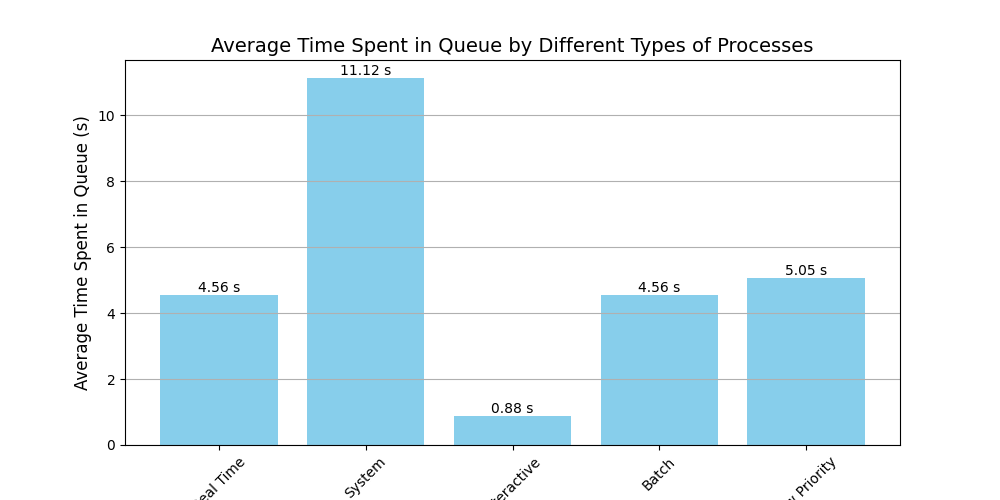
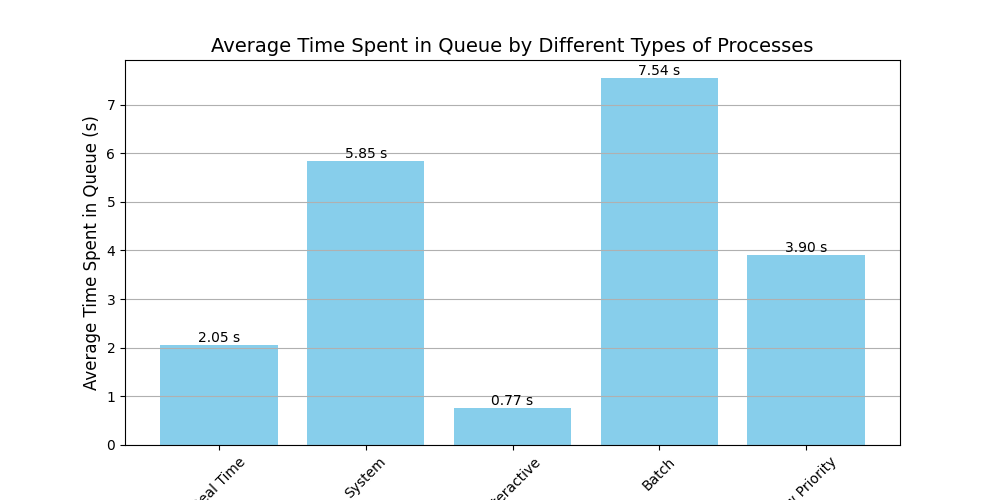
Burst time selection update for Interactive processes

Changed region(s): [[0.062, 0.12, 0.899, 0.78], [0.155, 0.57, 0.279, 0.69], [0.434, 0.78, 0.589, 0.84]]

diff --git a/app.py b/app.py
@@ -5,9 +5,7 @@ import os
 from mlqs import MultiLevelQueueScheduler, add_processes
 from plots import plot_results, plot_average_wait_time
 
-# pip install -r requirements.txt
-
-async def run_simulation_dynamic(num_cpus, total_processes, processes_per_second, speedup_simulation, burst_time):
+async def run_simulation_dynamic(num_cpus, total_processes, processes_per_second, speedup_simulation, burst_time, interactive_burst_time_range, use_random_interactive_burst):
     """
     Run a dynamic simulation of the multi-level queue scheduler.
 
@@ -17,17 +15,19 @@ async def run_simulation_dynamic(num_cpus, total_processes, processes_per_second
         processes_per_second (int): Rate at which processes are added per second.
         speedup_simulation (int): Factor to speed up the simulation.
         burst_time (int): Default burst time for each process.
+        interactive_burst_time_range (tuple): Min and max burst time for Interactive processes.
+        use_random_interactive_burst (bool): Whether to use random burst time within range for Interactive processes.
 
     Returns:
         tuple: Contains cpu_usage_data, queue_fill_data, and average_wait_times.
     """
     scheduler = MultiLevelQueueScheduler(num_cpus, total_processes, speedup_simulation, burst_time)
-    asyncio.create_task(add_processes(scheduler, total_processes, processes_per_second, burst_time))
+    asyncio.create_task(add_processes(scheduler, total_processes, processes_per_second, burst_time, interactive_burst_time_range, use_random_interactive_burst))
     cpu_usage_data, queue_fill_data, average_wait_times = await scheduler.run_scheduler()
     return cpu_usage_data, queue_fill_data, average_wait_times
 
 
-async def run_simulation_static(num_cpus, speedup_simulation, process_settings):
+async def run_simulation_static(num_cpus, speedup_simulation, process_settings, interactive_burst_time_range=None, use_random_interactive_burst=False):
     """
     Run a static simulation of the multi-level queue scheduler.
 
@@ -35,20 +35,28 @@ async def run_simulation_static(num_cpus, speedup_simulation, process_settings):
         num_cpus (int): Number of CPUs available for the scheduler.
         speedup_simulation (int): Factor to speed up the simulation.
         process_settings (dict): Dictionary containing process counts and burst times for each queue type.
+        interactive_burst_time_range (tuple, optional): Min and max burst time for Interactive processes.
+        use_random_interactive_burst (bool): If True, assigns random burst time within range for Interactive processes.
 
     Returns:
         tuple: Contains cpu_usage_data, queue_fill_data, and average_wait_times.
     """
     scheduler = MultiLevelQueueScheduler(num_cpus, sum(settings["count"] for settings in process_settings.values()), speedup_simulation)
 
-    # Add processes based on static settings for each priority queue
     for priority, settings in process_settings.items():
         for i in range(settings["count"]):
             process_name = f"{priority}_Process_{i + 1}"
-            await scheduler.schedule_process(priority, process_name, settings["burst_time"])
+            
+            if priority == "Interactive" and use_random_interactive_burst:
+                burst_time = random.randint(interactive_burst_time_range[0], interactive_burst_time_range[1])
+            else:
+                burst_time = settings["burst_time"]
+            
+            await scheduler.schedule_process(priority, process_name, burst_time)
 
     cpu_usage_data, queue_fill_data, average_wait_times = await scheduler.run_scheduler()
     return cpu_usage_data, queue_fill_data, average_wait_times
+
 
 
 def main():
@@ -62,7 +70,6 @@ def main():
     """
     st.title("Multi-Level Queue Scheduler Simulation")
 
-    # Process addition mode selection
     mode = st.radio("Select Process Adding Mode:", ("Dynamic", "Static"))
 
     num_cpus = st.number_input("Number of CPUs", min_value=1, max_value=4, value=2)
@@ -71,36 +78,44 @@ def main():
     if mode == "Dynamic":
         total_processes = st.number_input("Total Processes", min_value=1, max_value=300, value=44)
         processes_per_second = st.number_input("Processes Per Second", min_value=1, max_value=50, value=10)
-        burst_time = st.number_input("Burst Time", min_value=1, max_value=10, value=3)
+        burst_time = st.number_input("Default Burst Time for Processes", min_value=1, max_value=10, value=3)
 
     elif mode == "Static":
         process_settings = {}
-        total_processes = 0  # Set total_processes to zero as it's calculated dynamically in static mode
+        total_processes = 0
 
         for priority in ["Real Time", "System", "Interactive", "Batch", "Low Priority"]:
             with st.expander(f"{priority} Queue Settings"):
                 process_count = st.number_input(f"Number of {priority} Processes", min_value=0, max_value=100, value=5)
                 burst_time = st.number_input(f"Burst Time for {priority} Processes", min_value=1, max_value=10, value=3)
+
                 process_settings[priority] = {"count": process_count, "burst_time": burst_time}
-                total_processes += process_count  # Summing the total number of processes
+                total_processes += process_count
+
+
+    st.subheader("Interactive Process Burst Time Settings")
+    use_random_interactive_burst = st.checkbox("Use Random Burst Time for Interactive Processes", value=True)
+    interactive_burst_time_range = (1, 10)
+
+    if use_random_interactive_burst:
+        min_burst = st.number_input("Minimum Burst Time for Interactive Processes", min_value=1, max_value=10, value=1)
+        max_burst = st.number_input("Maximum Burst Time for Interactive Processes", min_value=min_burst, max_value=10, value=10)
+        interactive_burst_time_range = (min_burst, max_burst)
 
     if st.button("Run Simulation"):
         with st.spinner("Running simulation..."):
             if mode == "Dynamic":
-                # Run dynamic process addition simulation
                 cpu_usage_data, queue_fill_data, average_wait_times = asyncio.run(run_simulation_dynamic(
-                    num_cpus, total_processes, processes_per_second, speedup_simulation, burst_time
+                    num_cpus, total_processes, processes_per_second, speedup_simulation, burst_time, interactive_burst_time_range, use_random_interactive_burst
                 ))
             else:
-                # Run static process addition simulation
                 cpu_usage_data, queue_fill_data, average_wait_times = asyncio.run(run_simulation_static(
-                    num_cpus, speedup_simulation, process_settings
+                    num_cpus, speedup_simulation, process_settings, interactive_burst_time_range, use_random_interactive_burst
                 ))
 
-            # Display results and plots
             if cpu_usage_data and queue_fill_data:
                 plot_results(cpu_usage_data, queue_fill_data)
                 plot_average_wait_time(average_wait_times)
-                
+
 if __name__ == "__main__":
     main()

diff --git a/mlqs.py b/mlqs.py
@@ -285,45 +285,26 @@ class MultiLevelQueueScheduler:
         return {key: np.mean(queue.wait_times) if queue.wait_times else 0 for key, queue in self.queues.items()}
 
 
-async def add_processes(scheduler: MultiLevelQueueScheduler, total_processes: int, processes_per_second: int, burst_time: int) -> None:
+async def add_processes(scheduler: MultiLevelQueueScheduler, total_processes: int, processes_per_second: int, burst_time: int, interactive_burst_time_range: tuple, use_random_interactive_burst: bool) -> None:
     """
-    Continuously add processes to the scheduler.
+    Continuously add processes to the scheduler with configurable burst times.
 
     Args:
         scheduler (MultiLevelQueueScheduler): The scheduler to which processes will be added.
         total_processes (int): Total number of processes to add.
         processes_per_second (int): Number of processes to add per second.
+        burst_time (int): Default burst time for non-interactive processes.
+        interactive_burst_time_range (tuple): Min and max burst time for Interactive processes.
+        use_random_interactive_burst (bool): If True, assigns random burst time within range for Interactive processes.
     """
     for i in range(total_processes):
         await asyncio.sleep(1 / processes_per_second)
         process_name = f'Process_{i + 1}'
         priority = random.choice(list(scheduler.queues.keys()))
-        await scheduler.schedule_process(priority, process_name, burst_time)
 
+        if priority == "Interactive" and use_random_interactive_burst:
+            process_burst_time = random.randint(interactive_burst_time_range[0], interactive_burst_time_range[1])
+        else:
+            process_burst_time = burst_time
 
-# async def main() -> None:
-#     """
-#     Main function to initialize and run the multi-level queue scheduler simulation.
-#     """
-#     num_cpus = 4
-#     total_processes = 5
-#     processes_per_second = 50
-#     speedup_simulation = 20
-#     burst_time = 3
-
-#     scheduler = MultiLevelQueueScheduler(num_cpus, total_processes, speedup_simulation, burst_time)
-
-#     # Add processes in the background
-#     asyncio.create_task(add_processes(scheduler, total_processes, processes_per_second))
-
-#     # Run the scheduler
-#     cpu_usage_data, queue_fill_data, average_wait_times = await scheduler.run_scheduler()
-
-#     # Analyze results
-#     if cpu_usage_data and queue_fill_data:
-#         plot_results(cpu_usage_data, queue_fill_data)
-#         plot_average_wait_time(average_wait_times)
-
-
-# # Start the simulation
-# asyncio.run(main())
+        await scheduler.schedule_process(priority, process_name, process_burst_time)
